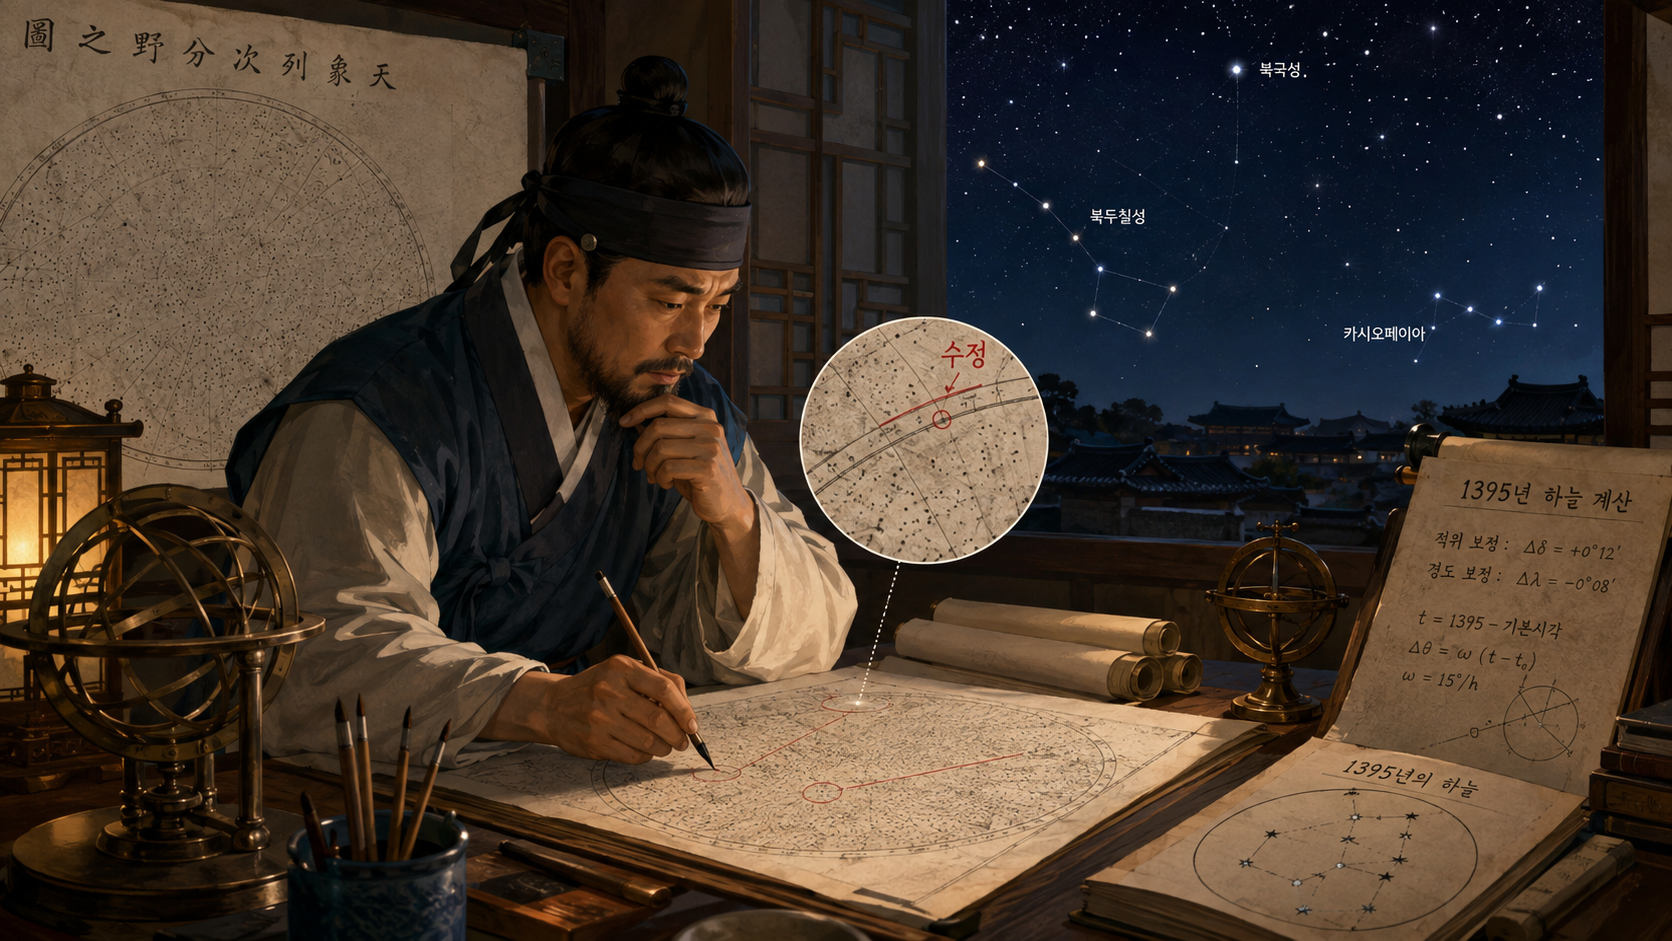
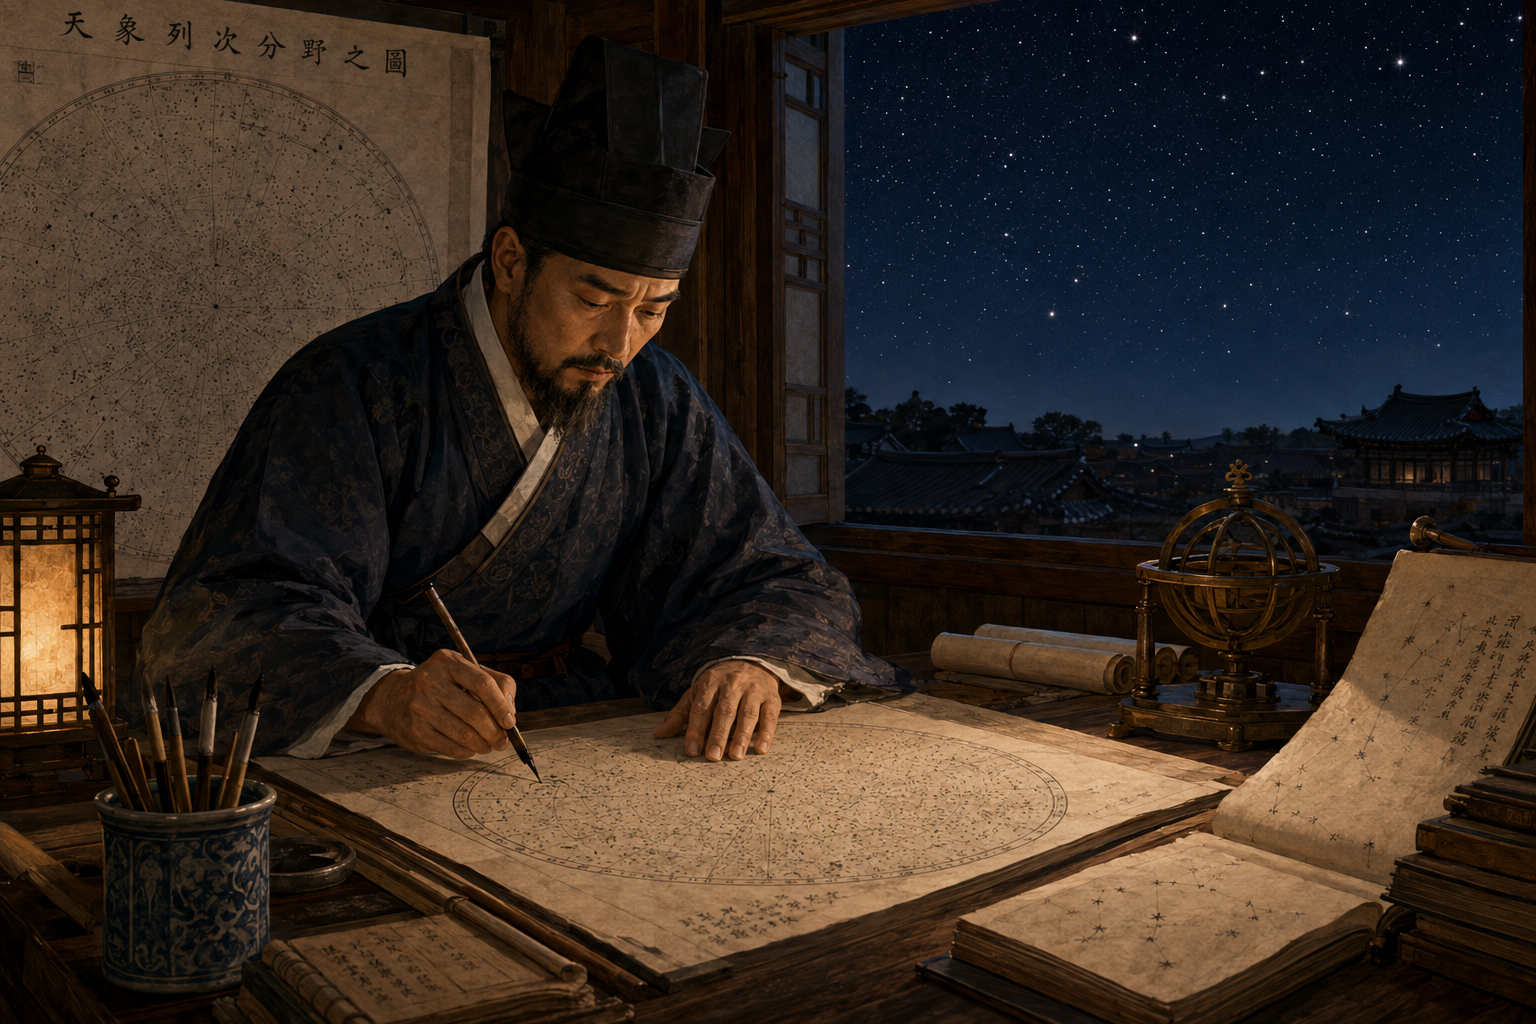
단계 2 장면 그림 세 장을 새 그림으로 갈았다
2-2·2-3·2-5 모두 같은 장면의 더 나은 그림이라 설명과 대체 텍스트는 그대로 둔다.
비율이 조금 달라졌지만(2-2 4:3, 2-3 3:2) 폭에 맞춰 들어가므로 배치는 그대로다.

그림 주소에 ?v= 를 붙였다. 그림 파일은 7일 캐시라, 같은 이름으로 갈아 끼우면
이미 받아 간 기기에서 최대 7일 동안 옛 그림이 그대로 보인다. 실제로 이번에
바꾸고 나서도 브라우저가 옛 그림을 계속 보여 주고 있었다. 앞으로 그림을 바꾸면
PIC_V 의 숫자를 올리면 된다.

diff --git a/public/assets/js/steps.js b/public/assets/js/steps.js
@@ -209,21 +209,26 @@
 
   /* 카드별 그림.
      사진과 상상도를 섞어 쓰므로, 상상해 그린 것은 설명에 그렇게 밝힌다.
-     학생이 옛 사진으로 오해하면 안 되기 때문이다. */
+     학생이 옛 사진으로 오해하면 안 되기 때문이다.
+
+     ?v= 는 그림을 같은 이름으로 갈아 끼웠을 때 옛 그림이 남지 않게 하는 표시다.
+     그림 파일은 7일 캐시라, 이 숫자를 올리지 않으면 이미 받아 간 기기에서
+     최대 7일 동안 옛 그림이 그대로 보인다. 그림을 바꾸면 숫자를 올린다. */
+  var PIC_V = '?v=2';
   var CARD_PICS = {
     1: { src: 'assets/chart_stone.jpg',
          cap: '돌에 새겨진 실물 — 천상열차분야지도 각석',
          alt: '천상열차분야지도 각석 — 돌에 새겨진 실물' },
-    2: { src: 'assets/2-2.png',
+    2: { src: 'assets/2-2.png' + PIC_V,
          cap: '바쳐진 탁본을 보고 돌에 새기게 하는 장면 — 상상하여 그린 그림',
          alt: '왕 앞에 천상열차분야지도 탁본이 펼쳐져 있고, 옆에서 석공들이 돌에 별을 새기고 있는 그림' },
-    3: { src: 'assets/2-3.png',
+    3: { src: 'assets/2-3.png' + PIC_V,
          cap: '1395년 하늘에 맞게 다시 계산하는 류방택 — 상상하여 그린 그림',
          alt: '밤에 별지도를 펴 놓고 붓으로 고쳐 그리는 조선 천문학자, 옆에 혼천의와 계산한 종이가 있는 그림' },
     4: { src: 'assets/chart_full.jpg',
          cap: '천상열차분야지도 전체 모습',
          alt: '천상열차분야지도 전체' },
-    5: { src: 'assets/2-5.png',
+    5: { src: 'assets/2-5.png' + PIC_V,
          cap: '방치되었던 태조의 원본, 1687년의 복각, 그리고 오늘날 — 상상하여 그린 그림',
          alt: '풀밭에 방치된 원본 돌, 1687년에 다시 새기는 장면, 박물관에 보존된 오늘날을 함께 보여 주는 그림' },
     6: { src: 'assets/chart_full.jpg',
